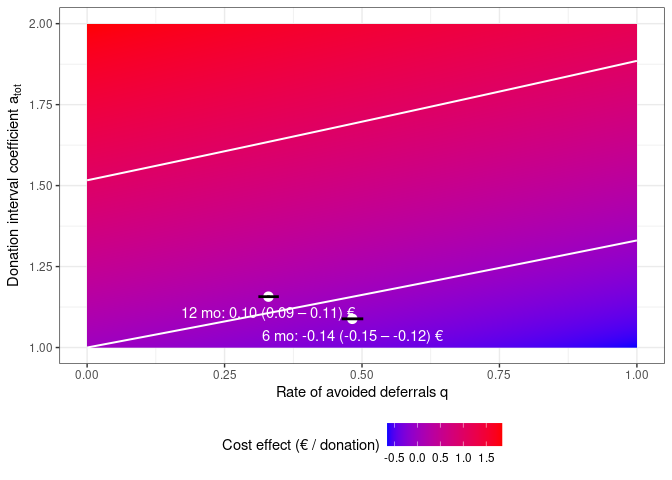
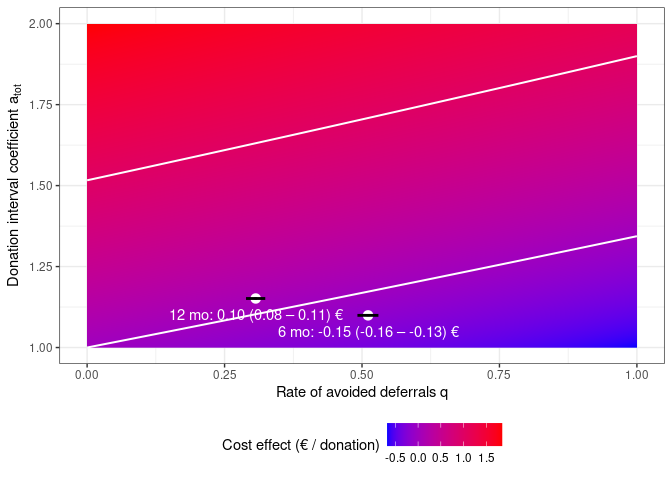
Run with updated parameters.

diff --git a/src/new_economic_parameters.md b/src/new_economic_parameters.md
@@ -2,7 +2,8 @@
 
 Try the economic effect calculations with the new parameters values.
 
-    new_fixed_parameters <- list(Pm=2.287, Pd=19.96, F=1, Fn=0.1066, rloss=0)
+    new_fixed_parameters <- list(Pm=2.287, Pd=20.342, F=1, Fn=0.1066, rloss=0.167)
+    #new_fixed_parameters <- list(Pm=2.287, Pd=19.96, F=1, Fn=0.1066, rloss=0.167)
     #new_fixed_parameters <- list(Pm=2.287, Pd=18.08, F=1, Fn=0.1066, rloss=0)
 
     new_parameters <- c(data_parameters, new_fixed_parameters)
@@ -26,13 +27,14 @@ Try the economic effect calculations with the new parameters values.
 
 The cost surface below is for the random forest on eProgesa data.
 
-    g <- draw_surface(results=all_results %>% filter(Id == "progesa-both-rf"), cost_function=do.call(cost_func_factory, new_parameters[c("Pm", "Pd", "F", "Fn", "rloss", "d")]))
+    cost_function <- do.call(cost_func_factory, new_parameters[c("Pm", "Pd", "F", "Fn", "rloss", "d")])
+    g <- draw_surface(results=all_results %>% filter(Id == "progesa-both-rf"), cost_function=cost_function)
 
     ## # A tibble: 2 × 11
     ##   Id      month E_value   E_low E_high a_value a_low a_high q_value q_low q_high
     ##   <chr>   <int>   <dbl>   <dbl>  <dbl>   <dbl> <dbl>  <dbl>   <dbl> <dbl>  <dbl>
-    ## 1 proges…     6  -0.136 -0.149  -0.122    1.09  1.09   1.09   0.482 0.463  0.502
-    ## 2 proges…    12   0.100  0.0863  0.114    1.16  1.15   1.16   0.330 0.311  0.349
+    ## 1 proges…     6 -0.146  -0.159  -0.131    1.10  1.10   1.10   0.511 0.492  0.530
+    ## 2 proges…    12  0.0966  0.0831  0.110    1.15  1.15   1.15   0.307 0.289  0.324
 
     if (save_figs) {
       filename <- sprintf("%s/cme_cost_surface_werr.pdf", fig_path)
